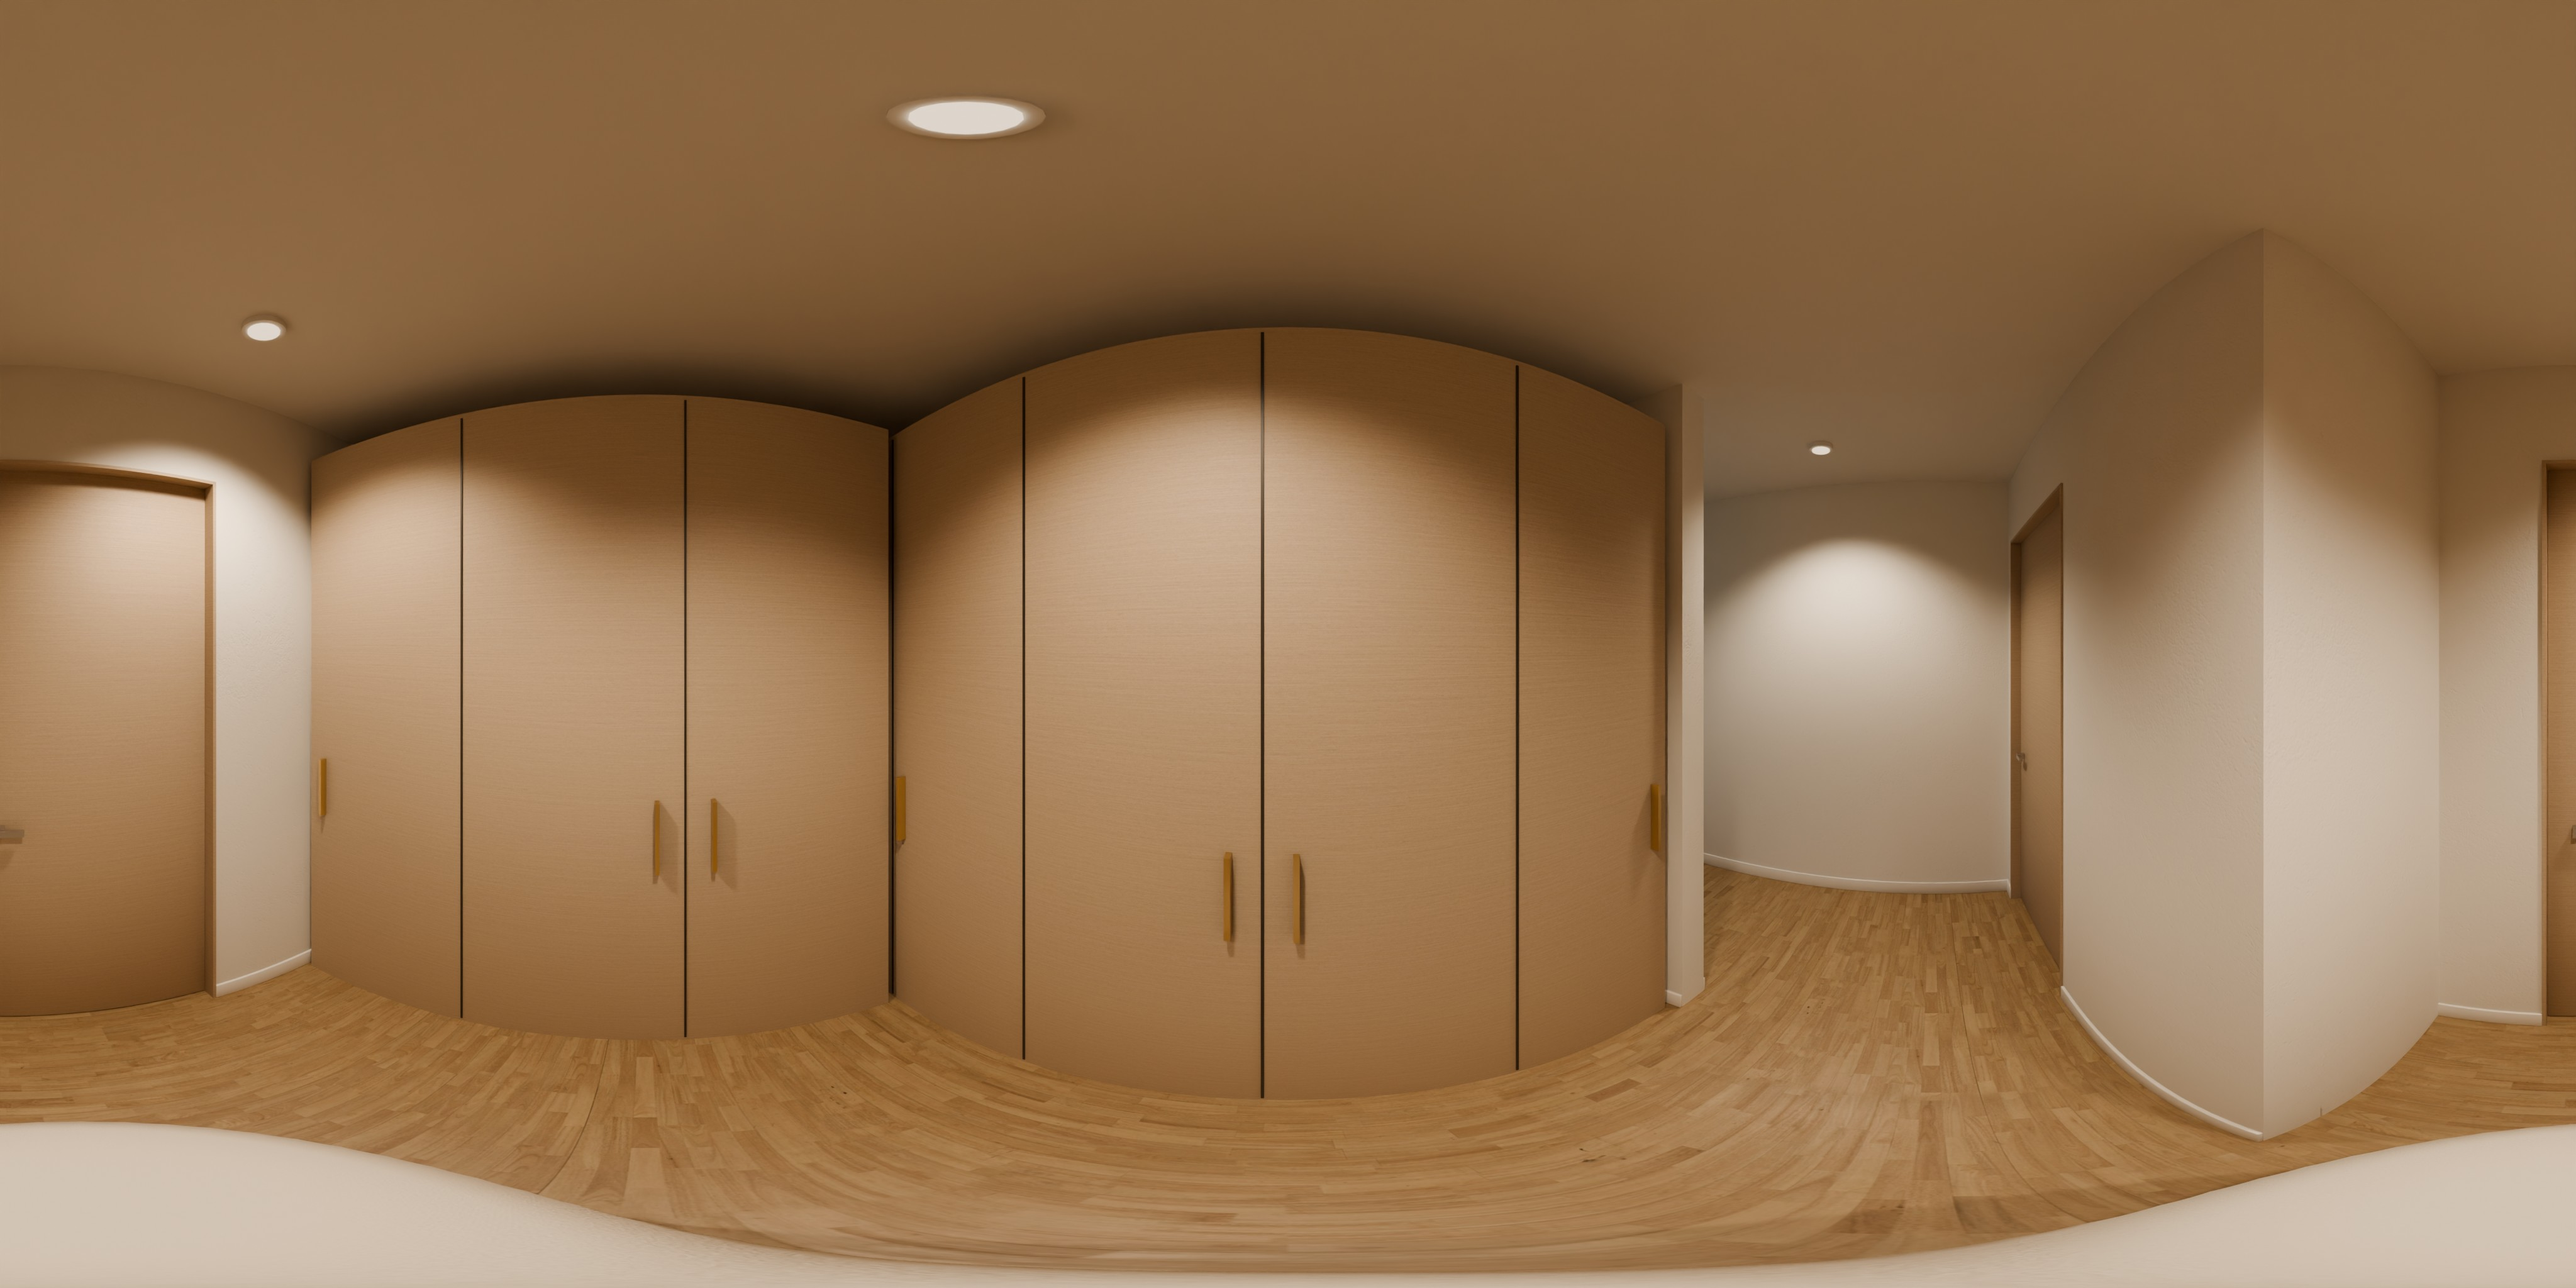
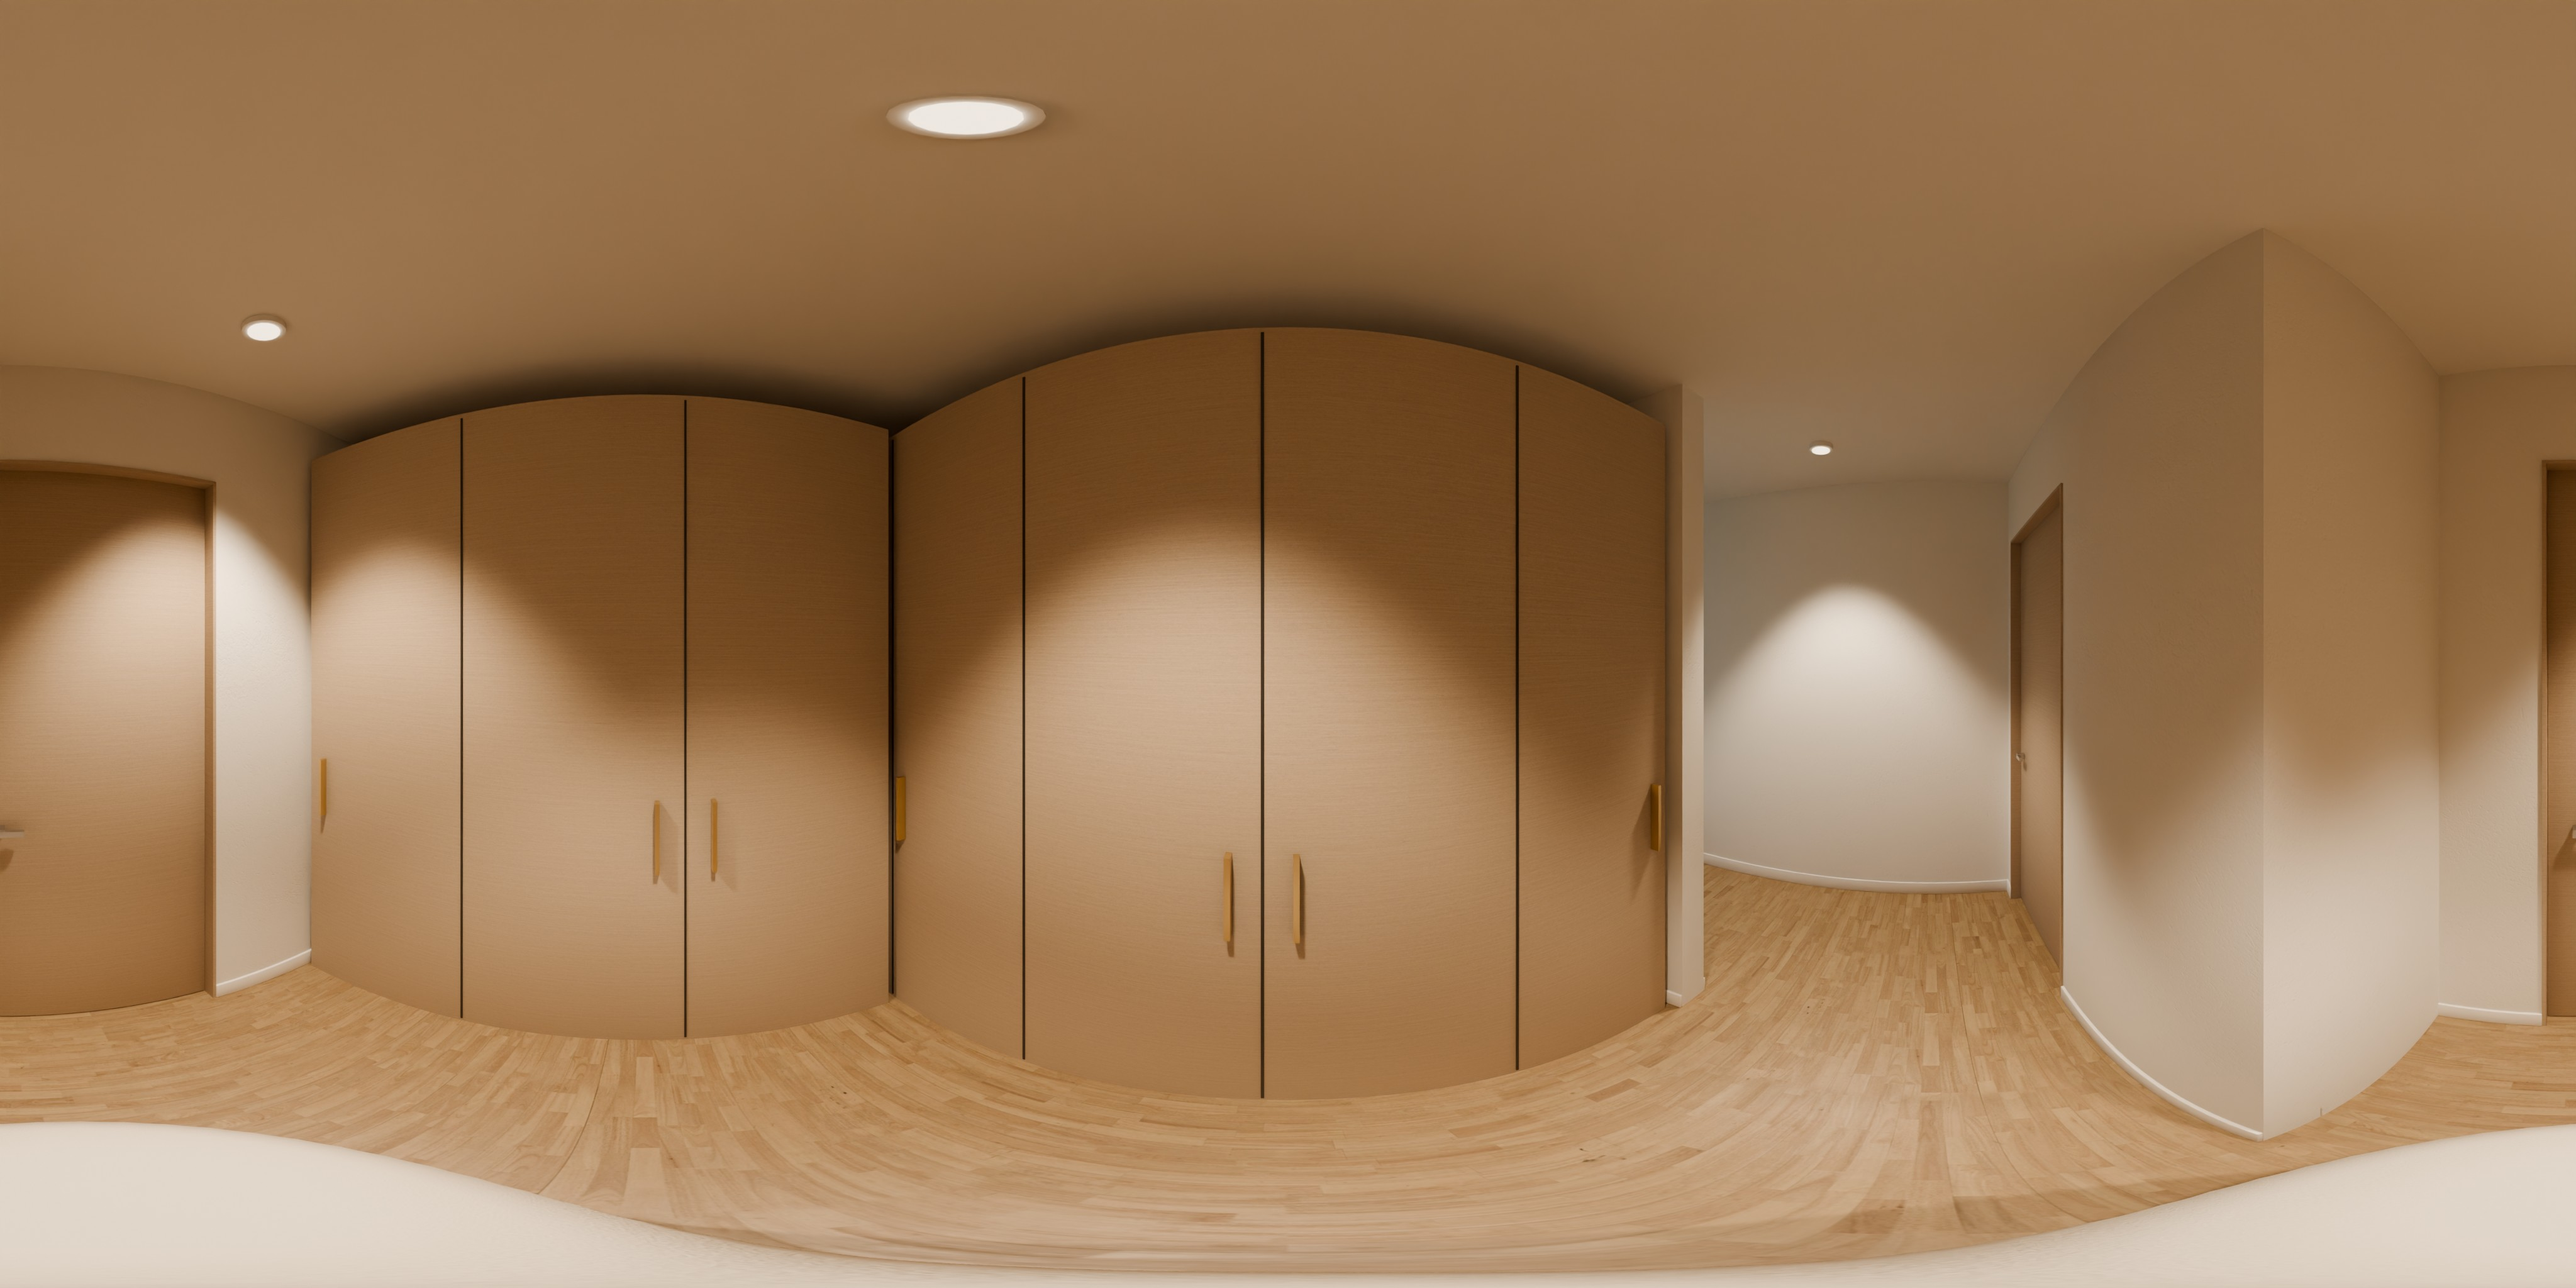
Update built site (1723bdc Split main.js (post, materials, exposure, photo); ph)

diff --git a/assets/index-mRUjr8hF.js b/assets/index-mRUjr8hF.js
@@ -1,4 +1,4 @@
-(function(){const e=document.createElement("link").relList;if(e&&e.supports&&e.supports("modulepreload"))return;for(const i of document.querySelectorAll('link[rel="modulepreload"]'))n(i);new MutationObserver(i=>{for(const r of i)if(r.type==="childList")for(const o of r.addedNodes)o.tagName==="LINK"&&o.rel==="modulepreload"&&n(o)}).observe(document,{childList:!0,subtree:!0});function t(i){const r={};return i.integrity&&(r.integrity=i.integrity),i.referrerPolicy&&(r.referrerPolicy=i.referrerPolicy),i.crossOrigin==="use-credentials"?r.credentials="include":i.crossOrigin==="anonymous"?r.credentials="omit":r.credentials="same-origin",r}function n(i){if(i.ep)return;i.ep=!0;const r=t(i);fetch(i.href,r)}})();const wv="16503ea",Tv=["q","mode","tod","t","pr","post","ao","sh","sharp","bloom","msaa","welcome","tour","play","doy","north","nb"];Math.random().toString(36).slice(2,12);function Av(s,e){const t=new URLSearchParams(e),n=new URLSearchParams;for(const i of Tv)t.has(i)&&n.set(i,t.get(i).slice(0,12));return s+(n.toString()?"?"+n:"")}const Ev=[/ResizeObserver loop/,/^Script error\.?$/,/AbortError/,/NotAllowedError/],bm=new Set,Ro=[],Cv=Date.now();let j0=()=>({}),Sm=!1;function _f(){return{build:wv,at:new Date().toISOString(),after:Math.round((Date.now()-Cv)/1e3)+" s",page:Av(location.pathname,location.search),screen:`${innerWidth}x${innerHeight} @${devicePixelRatio}`,touch:matchMedia("(pointer: coarse)").matches,agent:navigator.userAgent,...j0()}}function Ds(s,e,t=""){if(e=String(e||"unknown").slice(0,300),Ev.some(r=>r.test(e)))return;const n=s+"|"+e+"|"+t;if(bm.has(n)||Ro.length>=20)return;bm.add(n);const i={kind:s,message:e,where:String(t).slice(0,600),..._f()};Ro.push(i),s!=="file"&&Rv()}function iu(){return Ro.length?Ro.map(s=>`[${s.kind}] ${s.message}
+(function(){const e=document.createElement("link").relList;if(e&&e.supports&&e.supports("modulepreload"))return;for(const i of document.querySelectorAll('link[rel="modulepreload"]'))n(i);new MutationObserver(i=>{for(const r of i)if(r.type==="childList")for(const o of r.addedNodes)o.tagName==="LINK"&&o.rel==="modulepreload"&&n(o)}).observe(document,{childList:!0,subtree:!0});function t(i){const r={};return i.integrity&&(r.integrity=i.integrity),i.referrerPolicy&&(r.referrerPolicy=i.referrerPolicy),i.crossOrigin==="use-credentials"?r.credentials="include":i.crossOrigin==="anonymous"?r.credentials="omit":r.credentials="same-origin",r}function n(i){if(i.ep)return;i.ep=!0;const r=t(i);fetch(i.href,r)}})();const wv="1723bdc",Tv=["q","mode","tod","t","pr","post","ao","sh","sharp","bloom","msaa","welcome","tour","play","doy","north","nb"];Math.random().toString(36).slice(2,12);function Av(s,e){const t=new URLSearchParams(e),n=new URLSearchParams;for(const i of Tv)t.has(i)&&n.set(i,t.get(i).slice(0,12));return s+(n.toString()?"?"+n:"")}const Ev=[/ResizeObserver loop/,/^Script error\.?$/,/AbortError/,/NotAllowedError/],bm=new Set,Ro=[],Cv=Date.now();let j0=()=>({}),Sm=!1;function _f(){return{build:wv,at:new Date().toISOString(),after:Math.round((Date.now()-Cv)/1e3)+" s",page:Av(location.pathname,location.search),screen:`${innerWidth}x${innerHeight} @${devicePixelRatio}`,touch:matchMedia("(pointer: coarse)").matches,agent:navigator.userAgent,...j0()}}function Ds(s,e,t=""){if(e=String(e||"unknown").slice(0,300),Ev.some(r=>r.test(e)))return;const n=s+"|"+e+"|"+t;if(bm.has(n)||Ro.length>=20)return;bm.add(n);const i={kind:s,message:e,where:String(t).slice(0,600),..._f()};Ro.push(i),s!=="file"&&Rv()}function iu(){return Ro.length?Ro.map(s=>`[${s.kind}] ${s.message}
 ${s.where}`).join(`
 
 `)+`

diff --git a/index.html b/index.html
@@ -340,7 +340,7 @@
     #boq { width:min(430px, calc(env(viewport-segment-width 1 0, 100vw) - 32px)); }
   }
 </style>
-  <script type="module" crossorigin src="./assets/index-CKZlhM1t.js"></script>
+  <script type="module" crossorigin src="./assets/index-mRUjr8hF.js"></script>
 </head>
 <body class="welcome">
 <canvas id="view" tabindex="0"></canvas>
